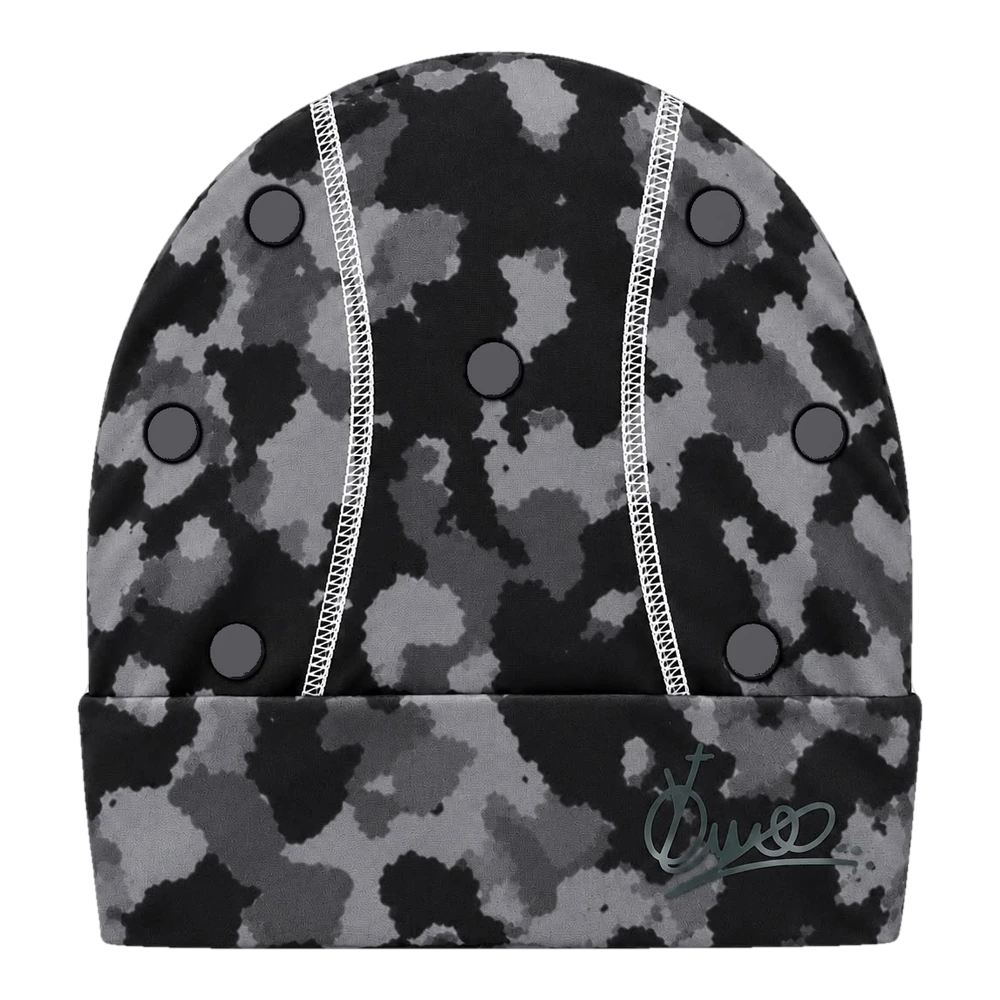
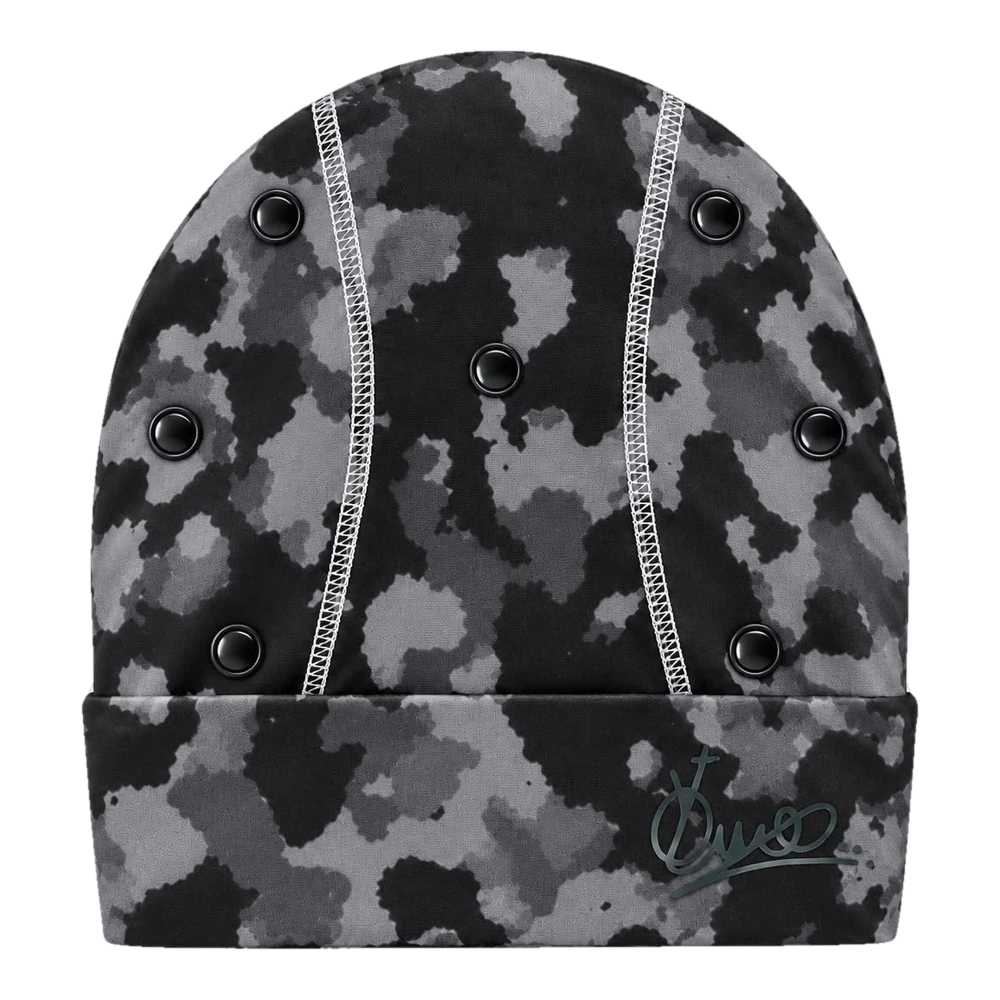
Skull cap: real black-bead and plain photos for the black skull, real black-bead back for the grey (#30)
Claude-Session: https://claude.ai/code/session_01EVq2W64n9gGjShBVBAZEmT

diff --git a/yowa/site/index.html b/yowa/site/index.html
@@ -896,7 +896,7 @@ const PRODUCTS = [
   { id: 'skull-cap', name: 'Skull Cap', cat: 'caps', cut: true, price: null, art: 'beanie', sizes: ['One size'],
     opts: [{ name: 'Colour', values: [{ v: 'Grey', sw: CAMO }, { v: 'Black', sw: '#121212' }] }, SKULL_BEADS],
     looks: [skullLook('Grey', 'No beads', ['skull-camo', 'skull-camo-sig']), skullLook('Grey', 'White beads', ['skull-camo-front-white', 'skull-camo-back-white']), skullLook('Grey', 'Black beads', ['skull-camo-front-black', 'skull-camo-back-black']),
-      skullLook('Black', 'No beads', ['skull-black-plain']), skullLook('Black', 'White beads', ['skull-black-white']), skullLook('Black', 'Black beads', ['skull-black-black'])],
+      skullLook('Black', 'No beads', ['skull-black-front-plain', 'skull-black-back-plain']), skullLook('Black', 'White beads', ['skull-black-white']), skullLook('Black', 'Black beads', ['skull-black-front-black', 'skull-black-back-black'])],
     desc: 'Skull cap with stitched seams, in grey camo or black. Keep it clean or add white or black beads. One size.' },
   { id: 'cap-042', name: '042 Cap', cat: 'caps', cut: true, price: null, art: 'cap', sizes: ['One size'],
     opts: [{ name: 'Colour', values: [{ v: 'Black', sw: '#121212' }, { v: 'Green', sw: '#2F5A38' }, { v: 'Navy', sw: '#1B2A5E' }, { v: 'Green & Yellow', sw: 'linear-gradient(135deg,#2F5A38 50%,#F2A60C 50%)' }] }, BEAD_COLOURS],
